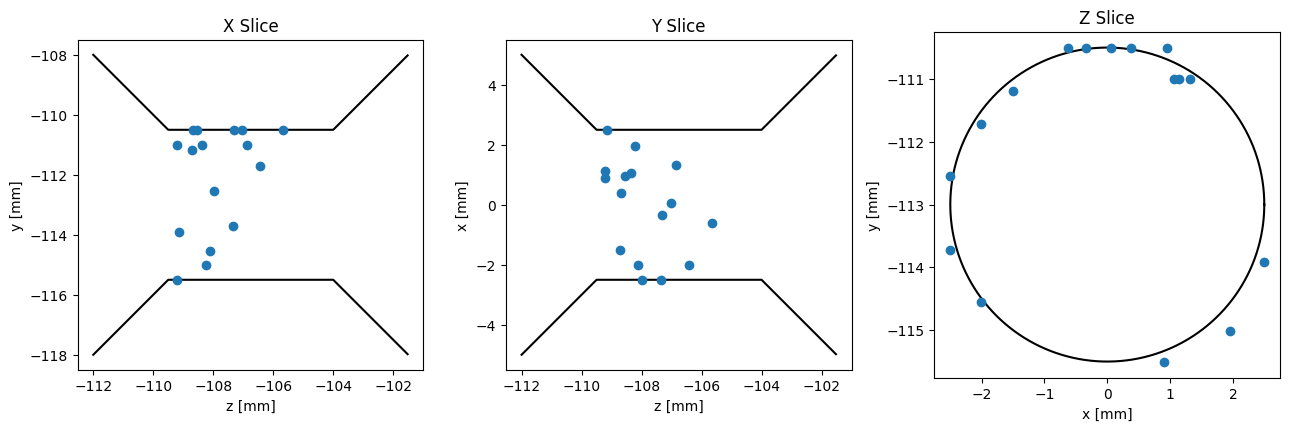
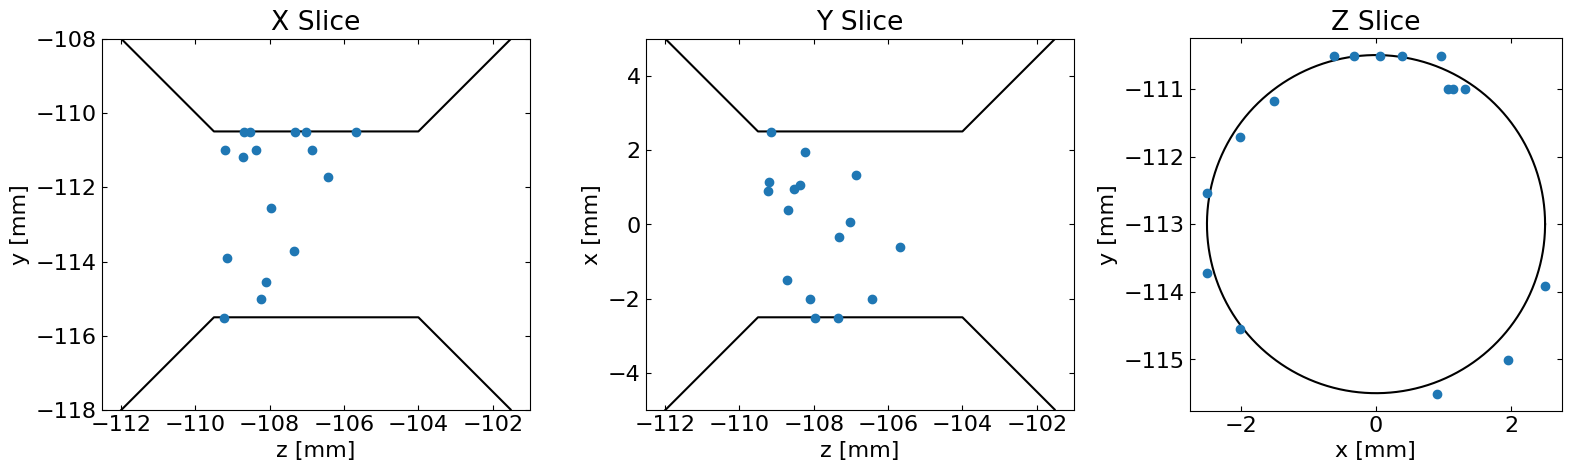
aesthetic changes

diff --git a/splatplot.py b/splatplot.py
@@ -49,7 +49,8 @@ angle  = np.linspace(0, 2*np.pi, 500)
 eleccol = 'k'
 pointcol = 'C0'
 
-fig, axes = plt.subplots(1,3, figsize = (13, 13))
+plt.rcParams.update({'font.size': 16})
+fig, axes = plt.subplots(1,3, figsize=(16,9), gridspec_kw={'width_ratios': [1, 1, 0.869]})
 ax = axes[1]
 ay = axes[0]
 az = axes[2]
@@ -60,6 +61,7 @@ ax.plot(lostz, lostx, 'o', color = pointcol)
 ax.set_title("Y Slice")  
 ax.set_xlabel("z [mm]")
 ax.set_ylabel("x [mm]")
+ax.set_ylim(-5,5)
 
 ay.plot(zplot, ytop, color = eleccol)
 ay.plot(zplot, ybot, color = eleccol)
@@ -67,17 +69,19 @@ ay.plot(lostz, losty, 'o', color = pointcol)
 ay.set_title("X Slice")  
 ay.set_xlabel("z [mm]")
 ay.set_ylabel("y [mm]")
+ay.set_ylim(-118,-108)
 
 az.plot(radius*np.cos(angle), radius*np.sin(angle)-113 , color = eleccol)
 #az.plot(big*np.cos(angle), big*np.sin(angle)-113 , color = 'none')
 az.plot(lostx,losty, 'o', color = pointcol)
-#az.set_ylim(-118.5,-107.5)
 az.set_title("Z Slice")  
 az.set_xlabel("x [mm]")
 az.set_ylabel("y [mm]")
 
 for i in range(0,3):
-    axes[i].set_aspect('equal', 'box')
+    axes[i].set_aspect('equal','box')
+    axes[i].tick_params(axis="x",direction="in", top="on",labelbottom="on")
+    axes[i].tick_params(axis="y",direction="in", right="on",labelleft="on")
 
 fig.tight_layout()
 fig.savefig("splats.pdf", bbox_inches = 'tight', pad_inches = 0.1, transparent=True)
